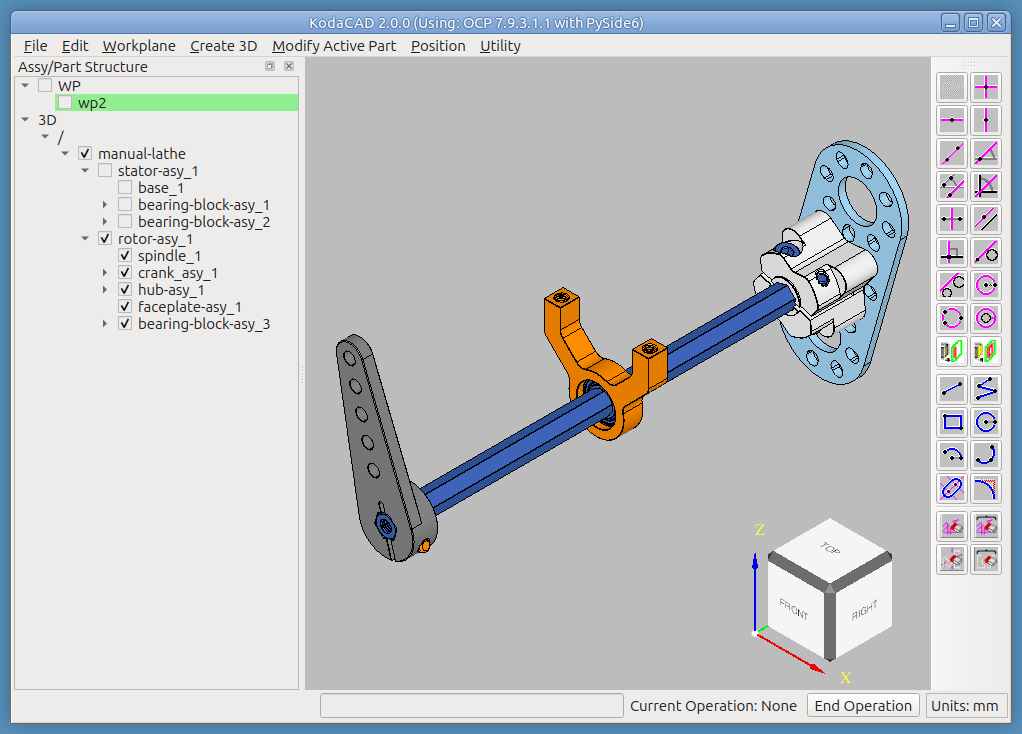
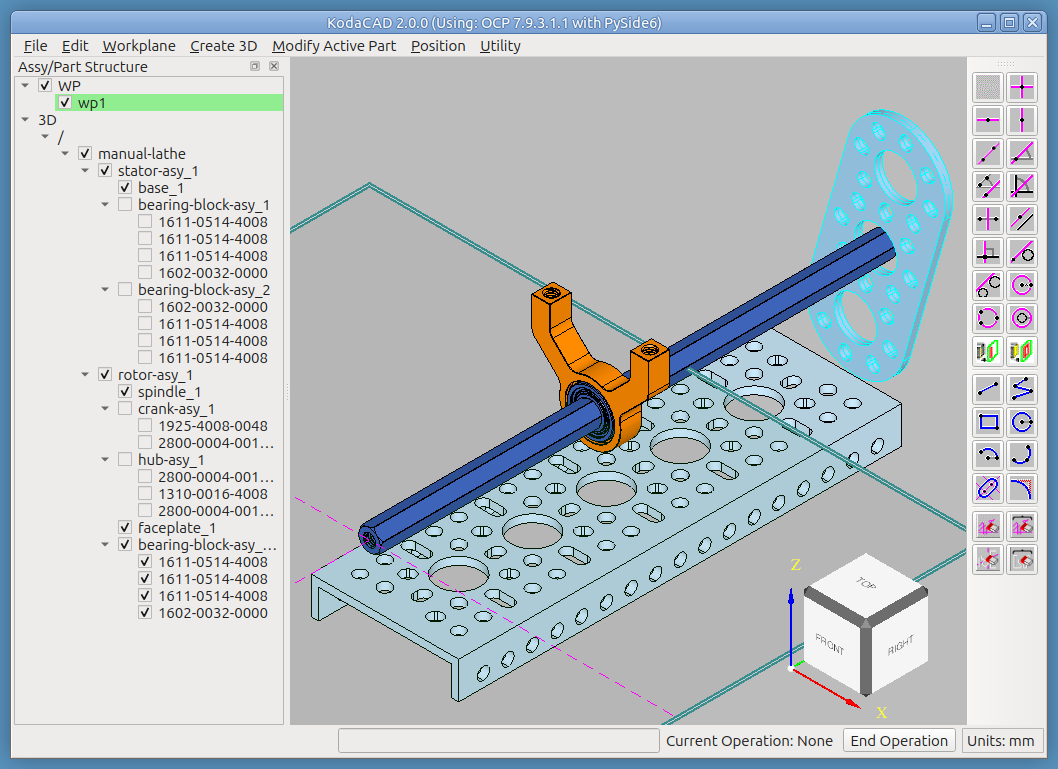
Revised lathe tutorial

diff --git a/tutorials/lathe/README.md b/tutorials/lathe/README.md
@@ -1,18 +1,17 @@
 # Tutorial: Assembly Structure with `manual-lathe.step`
 
-This tutorial addresses some of the issues that are encountered when dealing with a model that consists of several imported parts and assemblies that are integrated into a larger overall assembly.
+This tutorial addresses some issues that are encountered when working with a model that consists of several imported parts and assemblies that are integrated into a larger overall assembly.
 
 The file `manual-lathe.step` was built by importing several parts and assemblies found online at the goBILDA website, and then arranging them into an apparatus whose function is similar to the headstock of a lathe, driven by hand using a crank.
 
-Many of the topics in this tutorial will show how to make the model easier to navigate:
+Several of the topics in this tutorial will show how to make the model easier to navigate:
 
-1. Tree checkbox bottom-up derivation + expand/collapse persistence
-2. Renaming parts and assemblies with names that are functionally descriptive
-3. Creating sibling assemblies
-4. Reparent an assembly that already has a parent to a different parent
-Then Reposition it using dynamic / Align Gizmo to Active Workplane / Nudge
-6. Workplane → By Point & Direction
- 
+* Tree checkbox bottom-up derivation + expand/collapse persistence
+* Renaming parts and assemblies using functionally descriptive names
+* Creating sibling assemblies
+* Reparent an assembly that already has a parent to a different parent
+* Reposition it using Dynamic / Align Gizmo to Active Workplane / Nudge
+* Workplane → By Point & Direction
 
 ## What this exercises
 
@@ -25,7 +24,8 @@ Then Reposition it using dynamic / Align Gizmo to Active Workplane / Nudge
 * **File -> Load Session**
 
 If you use your imagination, hopefully you can notice some functional similarity with a lathe headstock, a spindle (hex shaft) supported on 2 bearings, with a face_plate on the right, and a crank (arm) on the left.
-Looking at the tree, you can see that the names of the parts and assemblies are not very descriptive.
+
+But looking at the tree, you can see that the names of the parts and assemblies are not very descriptive.
 
 ![Manual Lathe Assembly](imgs/lathe0.png)
 
@@ -37,9 +37,9 @@ Assign functionally descriptive names to the children of the top assembly. This 
 
 ## Step 3 -- Create 2 subassemblies under top assembly
 
-When an assembly grows in size (number of components), redrawing the viewport can take longer if everything is being displayed. By clumping things into functional subassemblies, and by only displaying the ones being currently worked on, the application will be able to execute operations more quickly.
+When working with an assembly, doing certain operations causes the viewport to be redrawn, so in the interest of speed, it helps to limit the number of items being displayed. To do this, it can help to clump things into functional subassemblies, and then only display the ones being currently worked on. In this step we will create 2 sibling assemblies under the manual-lathe assembly.
 
-1. Collapse the child components of manual-lathe assembly in the tree. This collapsed tree configuration should persist throughout this session.
+1. Collapse the child components of manual-lathe assembly in the tree. This collapsed tree configuration should persist throughout the session.
 2. RMB click on manual lathe and select Create New Assembly. Name the new assembly "stator-asy"
     * Notice how long it took to complete this operation.
     * Now click to hide manual-lathe then proceed to the next step.
@@ -47,30 +47,36 @@ When an assembly grows in size (number of components), redrawing the viewport ca
     * Did you notice that this operation completed "instantly" this time?
     * It takes time to redraw the viewport so it makes sense to hide all but the things you are working on at the moment.
 
-* The two new assemblies should appear in the tree as siblings under manual-lathe.
+* The two new assemblies will appear in the tree as siblings under manual-lathe.
 * The draw/hide configuration set previously should persist.
 * The expand/collapse configuration should also persist.
-* The tree should now show rotor-asy as the only checked child.
-    * This causes the parent assembly to also be checked.
+* The tree should now show rotor-asy as the only checked child. The creation of a new assembly is checked (by default).
+    * This causes its parent assembly to also be checked.
+
+*Claude: I noticed that stator-asy also became checked.*
 
 ![Two Sibling Assemblies Added](imgs/siblings.png)
 
 ## Step 4 -- Drag and drop components into rotor-asy or stator-asy
 
-* Drag and drop each of the original child components of manual-lathe into either rotor-asy or stator-asy.
-* Try it with everything hidden
+Uncheck manual-lathe assembly to hide everything.
 
-*Claude: I noticed that when I dragged and dropped an assembly, everything stayed unchecked (hidden), but when I dragged & dropped a part (base, spindle, faceplate), the part and one or both of rotor-asy, stator-asy would become checked.* 
+* Drag and drop each of the original child components of manual-lathe into either rotor-asy or stator-asy, as appropriate.
+* Try it with everything hidden. Everything should stay hidden.
+
+*Claude: I started by dragging items into rotor-asy and noticed that as each was dropped, the empty stator-asy would become checked. I also noticed that when I dropped a part (spindle or faceplate), it would get displayed. When an assembly got dropped, it remained hiddedn but got expanded. Next, after unchecking stator-asy, I brought components into it, starting with the base. This got displayed. Finally, the bearing-block-asy instances, which remained hidden, also got expanded.* 
 
 ![Rotor & Stator Populated](imgs/populated.png)
 
-* As a final part of this step, RMB click on one of the bearing-block-asy instances and choose **Create Shared Instance**. Name it "bearing-block-asy_3" and drag it (in the tree) from the stator-asy into the rotor-asy
+* Now, to set up step 5, RMB click on bearing-block-asy_1 and choose **Create Shared Instance**. Name it "bearing-block-asy_3" and drag it (in the tree) from the stator-asy into the rotor-asy.
+
+![Bearing Block 3 added](imgs/bb3.png)
 
 ## Step 5 -- Reposition the new "bearing-block-asy_3"
 
 * We will reposition "bearing-block-asy_3" by rotating it 180 degrees aroung the spindle axis and moving it to the center of the manual-lathe assembly
-* First we will need to create workplane:
-    * **Workplane -> Point & Direction**, ctrl+shift click on a circular arc on the end of the spindle, then click on the end face of the base for the W direction, then a side face of the base for the +U direction.
+* In order to rotate it around the spindle axis, we will first need to create a workplane with its origin on the spindle axis:
+    * **Workplane -> Point & Direction**, ctrl+shift click on a circular arc on the end of the spindle, then click on the top face of the base for the W direction, then a side face of the base for the +U direction.
     * This creates a workplane with its W axis colinear with the spindle axis.
 * Select bearing-block-asy_3, then **Position -> Position Selected**
 * Choose method **Dynamic**.
@@ -79,14 +85,14 @@ When an assembly grows in size (number of components), redrawing the viewport ca
     the move.
     * If it looks wrong, **Back** and try again; if it looks right, proceed
 
-![Dynamic  Nudge](imgs/nudge.png)
+![Dynamic Nudge](imgs/nudge.png)
 
 * While still in dynamic mode:
     * After the 180 degree nudge, the manipulator moves back to its default position.
     * Use a handle to move it in the Y direction to the center.
     * Commit the move by clicking **Done**.
 
-
+*Claude: The new user will undoubtedly meet with some frustration when using the AIS manipulator (as I did). If the cursor just happens to fly over the manipulator, it will respond to the next drag event that occurs, regardless of where it occurs in the viewport. To transfer the receiver of drag events back to the orbit controls, a click somewhere in the background is needed. Then the orbit controls will receive the drag events.*
 
 ![Move complete](imgs/bb3-moved.png)
 
